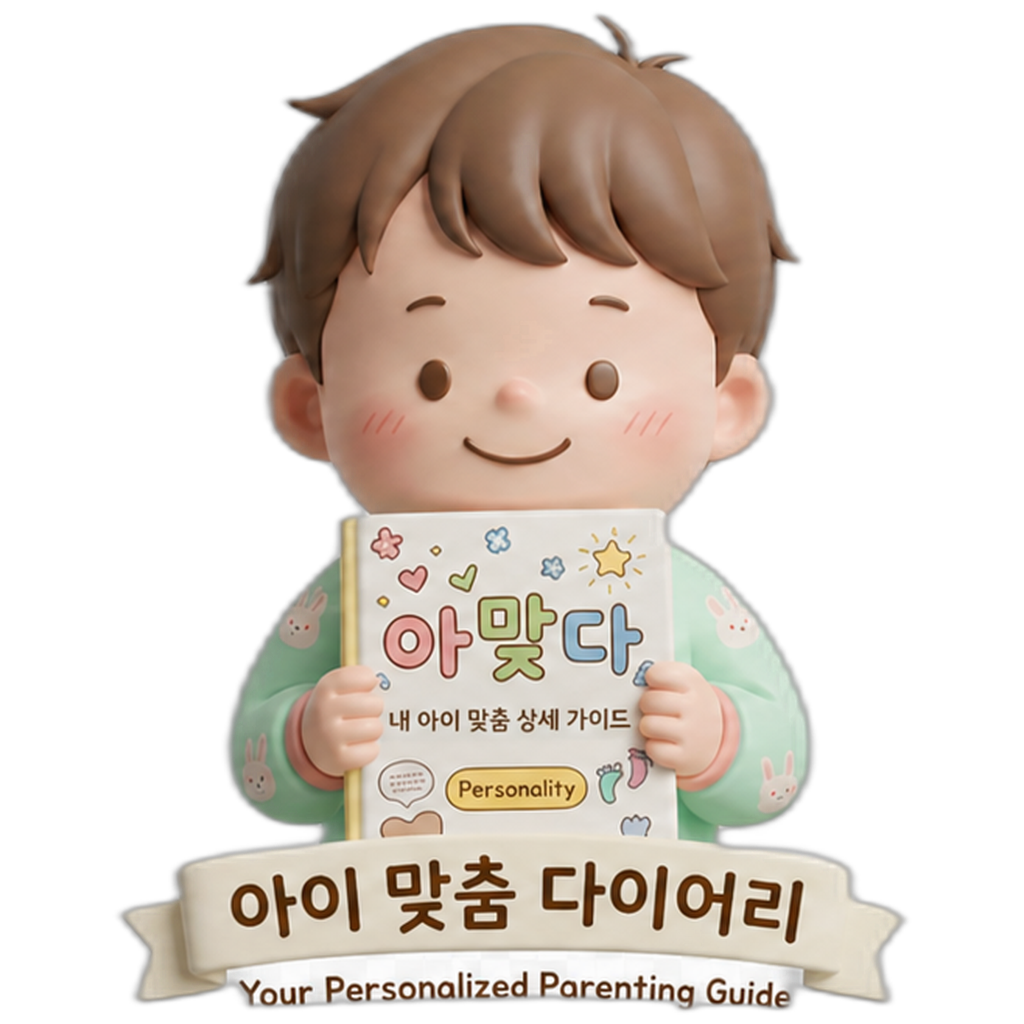
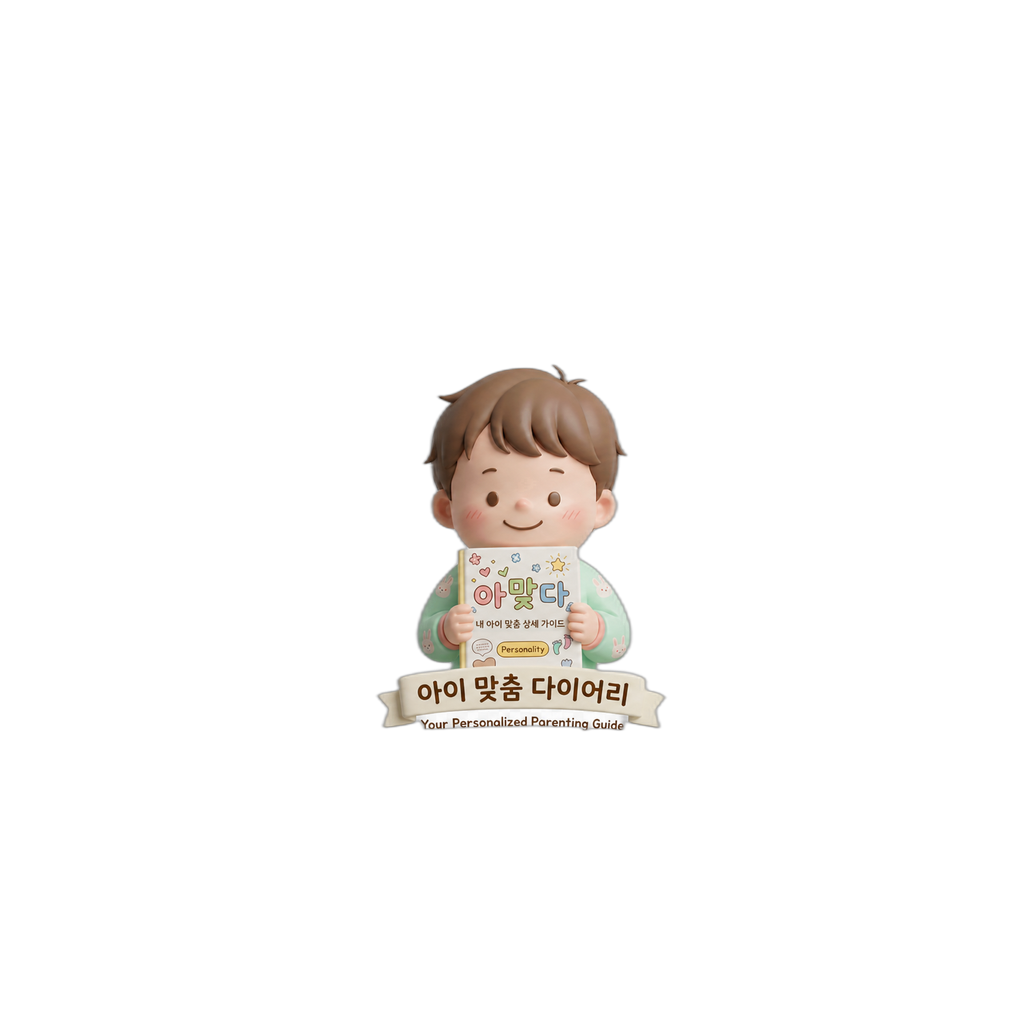
fix(brand): 아이콘 전체 콘텐츠 노출 + 로그인 화면 텍스트 제거 + 일러스트 확대
아이콘:
- 이전: 캐릭터만 84% 영역 → 모서리 짤림, 별/배너 사라짐
- 신규: login-hero 전체 이미지를 95% width로 fit → 캐릭터 + 책 + 별 + 배너 전부 보임
- iOS opaque 피치 배경 + Android 투명 foreground 둘 다 동일

로그인 화면:
- AppNameDisplay (아맞다 텍스트) 제거
- 태그라인 (아이의 기질을 기록하는 특별한 다이어리) 제거
- heroWrap height 50% → 72% (텍스트 자리 확보)
- heroImage 85% → 95% width (캐릭터 더 크게)
- 일러스트만 보이는 깔끔한 첫 인상

diff --git a/frontend/app/(auth)/login.tsx b/frontend/app/(auth)/login.tsx
@@ -11,7 +11,6 @@ import {
 } from 'react-native';
 import { LinearGradient } from 'expo-linear-gradient';
 import { router } from 'expo-router';
-import { AppNameDisplay } from '../../components/ui/AppNameDisplay';
 import { AuthInput } from '../../components/ui/AuthInput';
 import { AuthDivider } from '../../components/ui/AuthDivider';
 import { SocialLoginButtons } from '../../components/ui/SocialLoginButtons';
@@ -37,7 +36,7 @@ export default function LoginScreen() {
         style={StyleSheet.absoluteFill}
       />
       <View style={styles.scroll}>
-        {/* ── 투명 배경 캐릭터 일러스트 (그라디언트 위에 떠 있음) ── */}
+        {/* ── 투명 배경 캐릭터 일러스트 (텍스트 없이 크게) ── */}
         <View style={styles.heroWrap}>
           <Image
             source={require('../../assets/login-hero.png')}
@@ -45,14 +44,6 @@ export default function LoginScreen() {
             resizeMode="contain"
             fadeDuration={0}
           />
-        </View>
-
-        {/* ── Brand (일러스트 아래) ── */}
-        <View style={styles.brandWrap}>
-          <AppNameDisplay size="small" />
-          <Text style={styles.tagline}>
-            아이의 기질을 기록하는 특별한 다이어리
-          </Text>
         </View>
 
         {/* ── Login Card ── */}
@@ -133,31 +124,18 @@ const styles = StyleSheet.create({
     flex: 1,
   },
 
-  /* ── 캐릭터 hero (투명 배경, 그라디언트 위에 떠 있음) ── */
+  /* ── 캐릭터 hero (텍스트 없이 크게) ── */
   heroWrap: {
     width: SW,
-    height: SW * 0.5,
+    height: SW * 0.72,
     alignItems: 'center',
     justifyContent: 'center',
-    paddingTop: 30,
+    paddingTop: 24,
+    marginBottom: 8,
   },
   heroImage: {
-    width: SW * 0.85,
-    height: SW * 0.5,
-  },
-
-  /* ── Brand ── */
-  brandWrap: {
-    alignItems: 'center',
-    marginTop: 4,
-    marginBottom: 14,
-  },
-  tagline: {
-    fontSize: 12,
-    color: '#A0A0A0',
-    marginTop: 4,
-    fontWeight: '400',
-    letterSpacing: -0.2,
+    width: SW * 0.95,
+    height: SW * 0.72,
   },
 
   /* ── Card — 은은한 그림자, 깨끗한 배경 ── */
